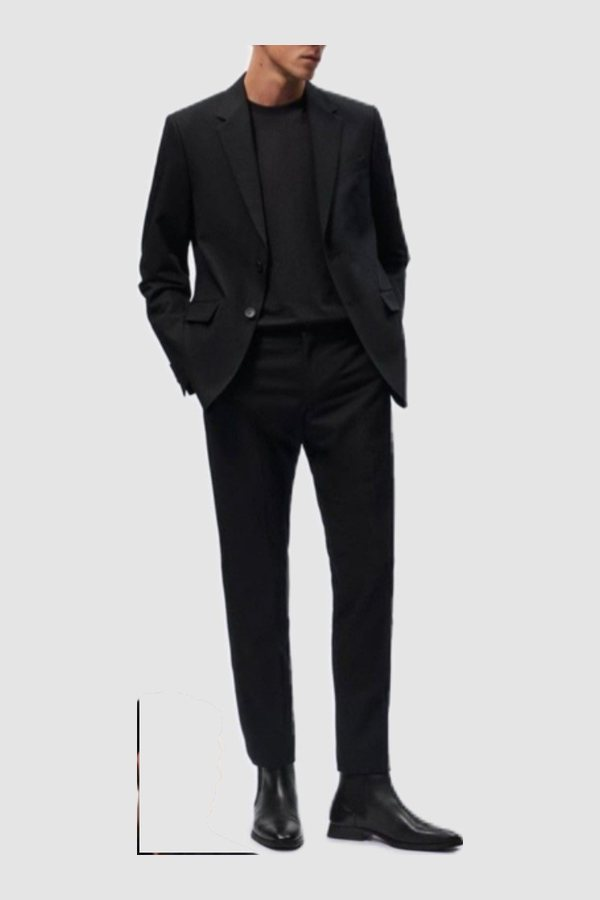
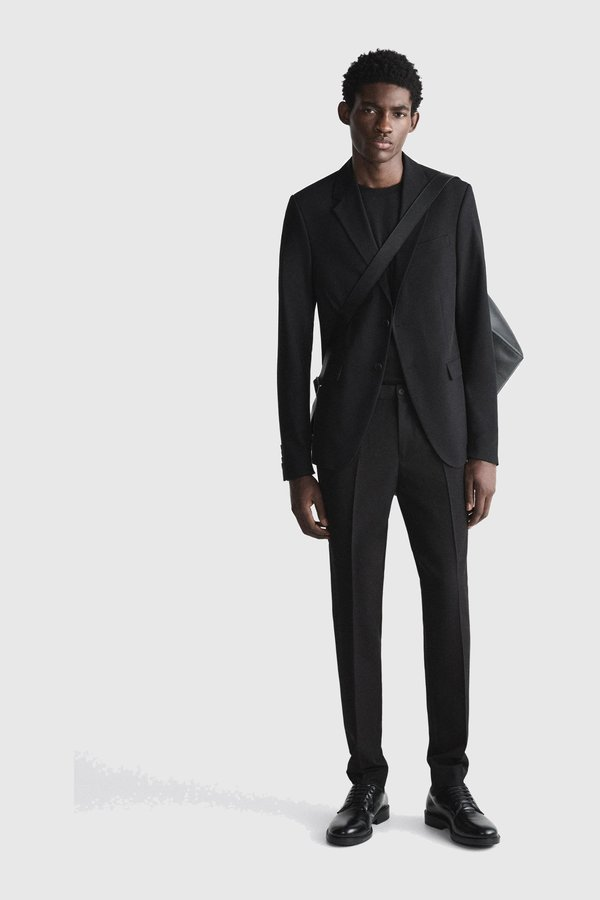
Dress code: replace the badly-framed looks with their uncropped originals
Five cards were cut off mid-body — not from my cropping but because
McKenna's collage had already cropped those looks headless. Reverse image
search (Yandex CBIR against the live cards) identified each garment and
found the full original photograph:

  her-3  LNB Studio "Spinella" jacket dress      1920x1920
  her-4  16Arlington "Minelli" feather dress     1600x2000
  him-1  Zara black suit                         2048x3072
  him-2  Suitsupply black shirt and trousers      850x1530
  him-4  the tuxedo look                         1080x1920

Each is normalised into the same 600x900 card: product shots on a uniform
backdrop get cut out and re-centred on the board grey; the tuxedo is a
location shot, so it is fitted whole and padded with its own backdrop
colour rather than cover-cropped (cover-cropping took his head off).

Cards carry ?v=2 — the filenames are unchanged, so without it a returning
guest would keep the old cropped versions from cache.

Two approaches were tried and rejected first, recorded so they aren't
repeated: reverse search only resolves distinctive garments (a plain black
gown returns AliExpress and Pinterest spam that would look cheaper than the
cutouts), and Unsplash/Pexels stock is legally cleaner but mismatches the
brief badly — most "man in black suit" stock wears a coloured tie, which
argues against the dress code the page is trying to set.

Verified: 15 cards, none broken, all versioned, lightbox opens the right
look, no JS errors.

Changed region(s): [[0.21, 0.0311, 0.87, 0.9644]]

diff --git a/details/index.html b/details/index.html
@@ -264,26 +264,26 @@
       <div class="lookbook__group">
         <h3 class="lookbook__label">For her</h3>
         <div class="lookbook__grid">
-        <figure class="tile look" tabindex="0" role="button" aria-label="Enlarge: A floor-length column gown"><img class="duo" src="/assets/look-her-1.jpg" width="600" height="900" alt="A floor-length column gown" loading="lazy" decoding="async" /></figure>
-        <figure class="tile look" tabindex="0" role="button" aria-label="Enlarge: A peplum mini with sheer tights"><img class="duo" src="/assets/look-her-2.jpg" width="600" height="900" alt="A peplum mini with sheer tights" loading="lazy" decoding="async" /></figure>
-        <figure class="tile look" tabindex="0" role="button" aria-label="Enlarge: An oversized blazer over a sheer maxi"><img class="duo" src="/assets/look-her-3.jpg" width="600" height="900" alt="An oversized blazer over a sheer maxi" loading="lazy" decoding="async" /></figure>
-        <figure class="tile look" tabindex="0" role="button" aria-label="Enlarge: A strapless midi with a feather hem"><img class="duo" src="/assets/look-her-4.jpg" width="600" height="900" alt="A strapless midi with a feather hem" loading="lazy" decoding="async" /></figure>
-        <figure class="tile look" tabindex="0" role="button" aria-label="Enlarge: A tuxedo suit — jacket and trousers"><img class="duo" src="/assets/look-her-5.jpg" width="600" height="900" alt="A tuxedo suit — jacket and trousers" loading="lazy" decoding="async" /></figure>
-        <figure class="tile look" tabindex="0" role="button" aria-label="Enlarge: A strapless gown with an oversized bow"><img class="duo" src="/assets/look-her-6.jpg" width="600" height="900" alt="A strapless gown with an oversized bow" loading="lazy" decoding="async" /></figure>
-        <figure class="tile look" tabindex="0" role="button" aria-label="Enlarge: A blazer dress with tall boots"><img class="duo" src="/assets/look-her-7.jpg" width="600" height="900" alt="A blazer dress with tall boots" loading="lazy" decoding="async" /></figure>
-        <figure class="tile look" tabindex="0" role="button" aria-label="Enlarge: An off-shoulder draped gown"><img class="duo" src="/assets/look-her-8.jpg" width="600" height="900" alt="An off-shoulder draped gown" loading="lazy" decoding="async" /></figure>
-        <figure class="tile look" tabindex="0" role="button" aria-label="Enlarge: A sharp blazer over sheer layers"><img class="duo" src="/assets/look-her-9.jpg" width="600" height="900" alt="A sharp blazer over sheer layers" loading="lazy" decoding="async" /></figure>
-        <figure class="tile look" tabindex="0" role="button" aria-label="Enlarge: A plunging gown with a thigh slit"><img class="duo" src="/assets/look-her-10.jpg" width="600" height="900" alt="A plunging gown with a thigh slit" loading="lazy" decoding="async" /></figure>
-        <figure class="tile look" tabindex="0" role="button" aria-label="Enlarge: An off-shoulder ruched mini"><img class="duo" src="/assets/look-her-11.jpg" width="600" height="900" alt="An off-shoulder ruched mini" loading="lazy" decoding="async" /></figure>
+        <figure class="tile look" tabindex="0" role="button" aria-label="Enlarge: A floor-length column gown"><img class="duo" src="/assets/look-her-1.jpg?v=2" width="600" height="900" alt="A floor-length column gown" loading="lazy" decoding="async" /></figure>
+        <figure class="tile look" tabindex="0" role="button" aria-label="Enlarge: A peplum mini with sheer tights"><img class="duo" src="/assets/look-her-2.jpg?v=2" width="600" height="900" alt="A peplum mini with sheer tights" loading="lazy" decoding="async" /></figure>
+        <figure class="tile look" tabindex="0" role="button" aria-label="Enlarge: An oversized blazer over a sheer maxi"><img class="duo" src="/assets/look-her-3.jpg?v=2" width="600" height="900" alt="An oversized blazer over a sheer maxi" loading="lazy" decoding="async" /></figure>
+        <figure class="tile look" tabindex="0" role="button" aria-label="Enlarge: A strapless midi with a feather hem"><img class="duo" src="/assets/look-her-4.jpg?v=2" width="600" height="900" alt="A strapless midi with a feather hem" loading="lazy" decoding="async" /></figure>
+        <figure class="tile look" tabindex="0" role="button" aria-label="Enlarge: A tuxedo suit — jacket and trousers"><img class="duo" src="/assets/look-her-5.jpg?v=2" width="600" height="900" alt="A tuxedo suit — jacket and trousers" loading="lazy" decoding="async" /></figure>
+        <figure class="tile look" tabindex="0" role="button" aria-label="Enlarge: A strapless gown with an oversized bow"><img class="duo" src="/assets/look-her-6.jpg?v=2" width="600" height="900" alt="A strapless gown with an oversized bow" loading="lazy" decoding="async" /></figure>
+        <figure class="tile look" tabindex="0" role="button" aria-label="Enlarge: A blazer dress with tall boots"><img class="duo" src="/assets/look-her-7.jpg?v=2" width="600" height="900" alt="A blazer dress with tall boots" loading="lazy" decoding="async" /></figure>
+        <figure class="tile look" tabindex="0" role="button" aria-label="Enlarge: An off-shoulder draped gown"><img class="duo" src="/assets/look-her-8.jpg?v=2" width="600" height="900" alt="An off-shoulder draped gown" loading="lazy" decoding="async" /></figure>
+        <figure class="tile look" tabindex="0" role="button" aria-label="Enlarge: A sharp blazer over sheer layers"><img class="duo" src="/assets/look-her-9.jpg?v=2" width="600" height="900" alt="A sharp blazer over sheer layers" loading="lazy" decoding="async" /></figure>
+        <figure class="tile look" tabindex="0" role="button" aria-label="Enlarge: A plunging gown with a thigh slit"><img class="duo" src="/assets/look-her-10.jpg?v=2" width="600" height="900" alt="A plunging gown with a thigh slit" loading="lazy" decoding="async" /></figure>
+        <figure class="tile look" tabindex="0" role="button" aria-label="Enlarge: An off-shoulder ruched mini"><img class="duo" src="/assets/look-her-11.jpg?v=2" width="600" height="900" alt="An off-shoulder ruched mini" loading="lazy" decoding="async" /></figure>
         </div>
       </div>
       <div class="lookbook__group">
         <h3 class="lookbook__label">For him</h3>
         <div class="lookbook__grid lookbook__grid--him">
-        <figure class="tile look" tabindex="0" role="button" aria-label="Enlarge: A black suit over a black tee"><img class="duo" src="/assets/look-him-1.jpg" width="600" height="900" alt="A black suit over a black tee" loading="lazy" decoding="async" /></figure>
-        <figure class="tile look" tabindex="0" role="button" aria-label="Enlarge: A black shirt with tailored trousers"><img class="duo" src="/assets/look-him-2.jpg" width="600" height="900" alt="A black shirt with tailored trousers" loading="lazy" decoding="async" /></figure>
-        <figure class="tile look" tabindex="0" role="button" aria-label="Enlarge: A slim black shirt and trousers"><img class="duo" src="/assets/look-him-3.jpg" width="600" height="900" alt="A slim black shirt and trousers" loading="lazy" decoding="async" /></figure>
-        <figure class="tile look" tabindex="0" role="button" aria-label="Enlarge: Black tie — a tuxedo with a white shirt"><img class="duo" src="/assets/look-him-4.jpg" width="600" height="900" alt="Black tie — a tuxedo with a white shirt" loading="lazy" decoding="async" /></figure>
+        <figure class="tile look" tabindex="0" role="button" aria-label="Enlarge: A black suit over a black tee"><img class="duo" src="/assets/look-him-1.jpg?v=2" width="600" height="900" alt="A black suit over a black tee" loading="lazy" decoding="async" /></figure>
+        <figure class="tile look" tabindex="0" role="button" aria-label="Enlarge: A black shirt with tailored trousers"><img class="duo" src="/assets/look-him-2.jpg?v=2" width="600" height="900" alt="A black shirt with tailored trousers" loading="lazy" decoding="async" /></figure>
+        <figure class="tile look" tabindex="0" role="button" aria-label="Enlarge: A slim black shirt and trousers"><img class="duo" src="/assets/look-him-3.jpg?v=2" width="600" height="900" alt="A slim black shirt and trousers" loading="lazy" decoding="async" /></figure>
+        <figure class="tile look" tabindex="0" role="button" aria-label="Enlarge: Black tie — a tuxedo with a white shirt"><img class="duo" src="/assets/look-him-4.jpg?v=2" width="600" height="900" alt="Black tie — a tuxedo with a white shirt" loading="lazy" decoding="async" /></figure>
         </div>
       </div>
     </div>
